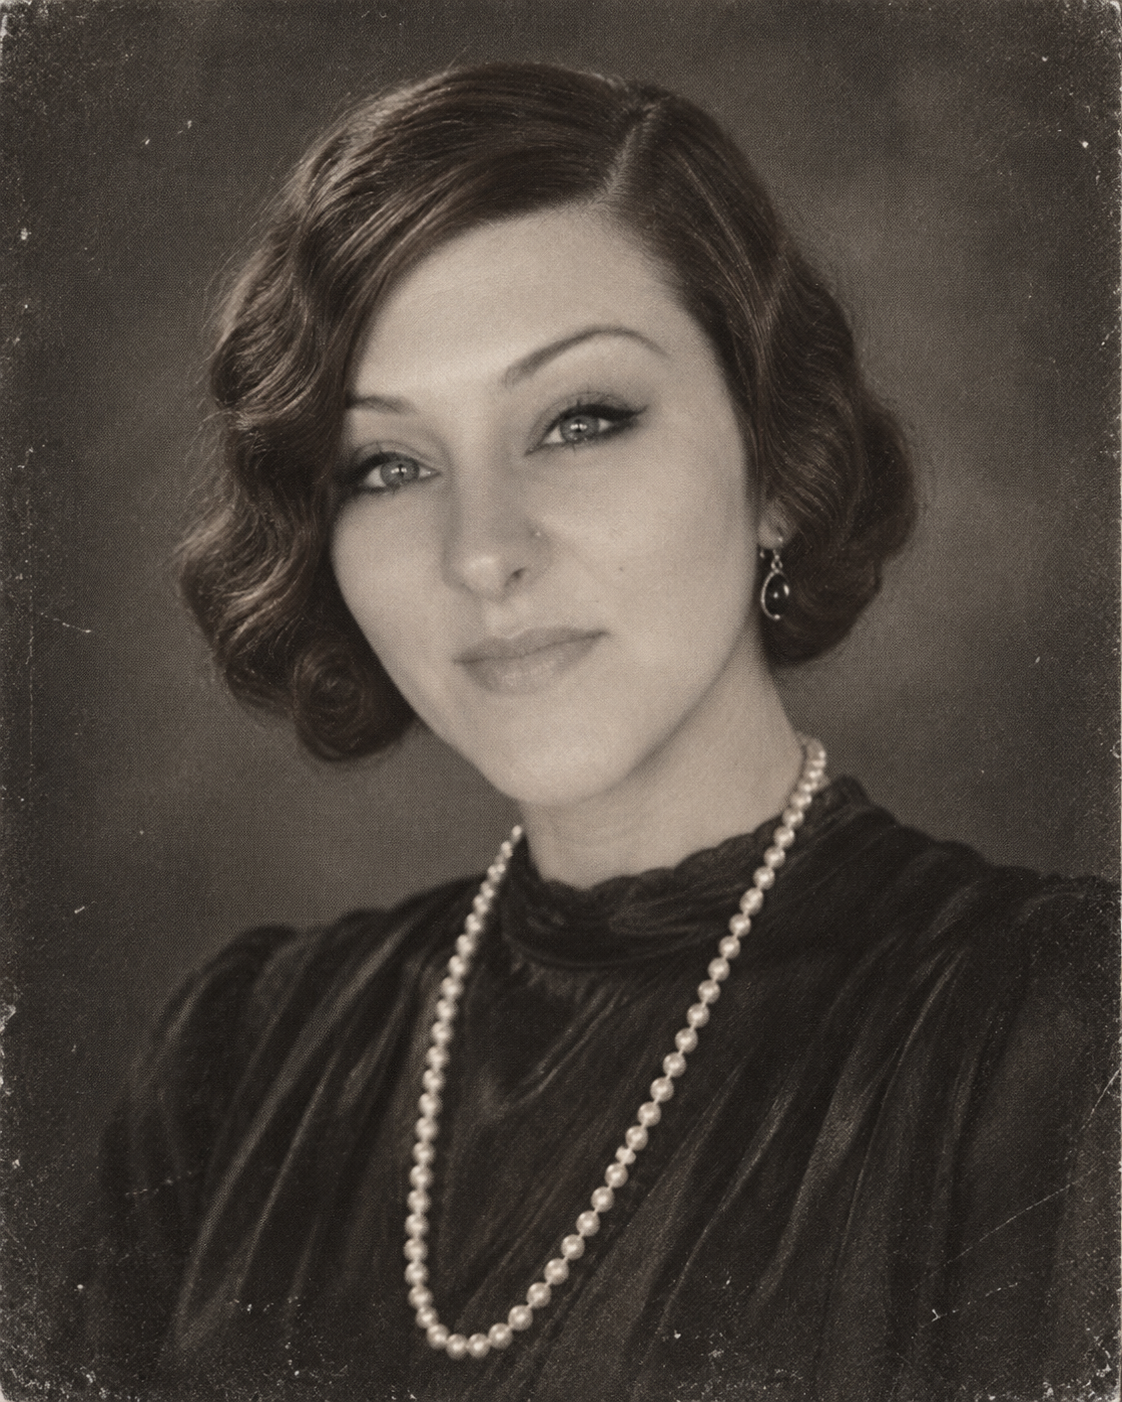
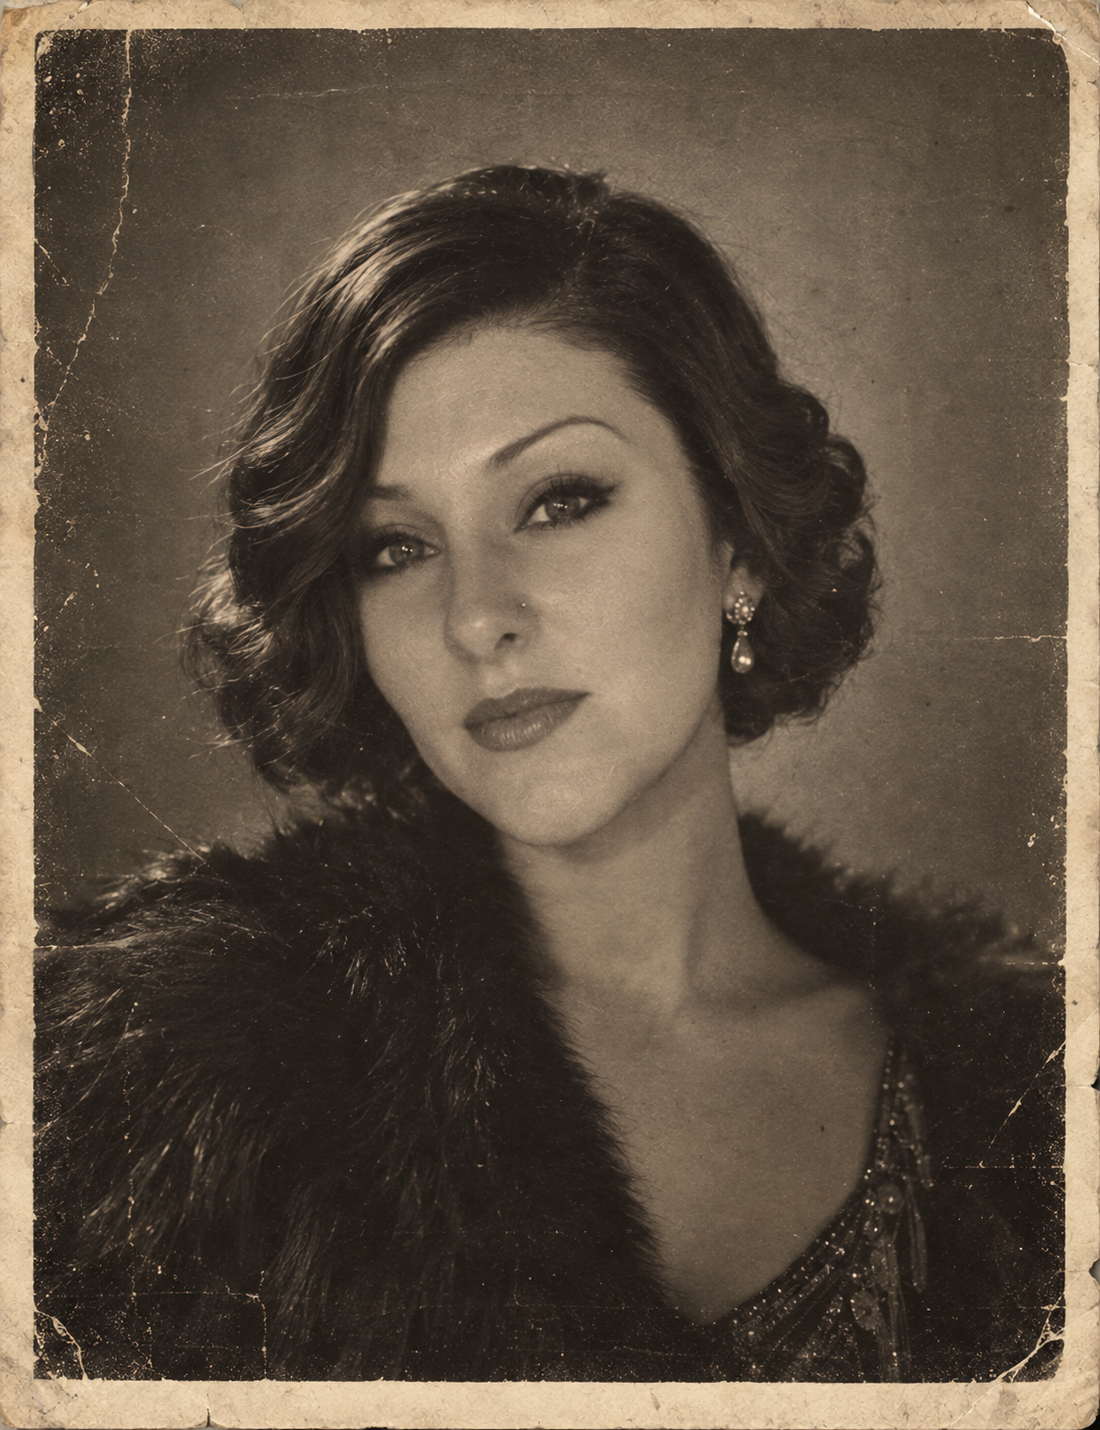
Replace Cassandra Castello portrait with supplied archive photograph
Swaps the AI-generated portrait on the murderer-or-murdered record
(BV-24-047) for the actual aged photograph supplied by the project
owner, updating image dimensions/focal point and the generation notes
to reflect the source.

Claude-Session: https://claude.ai/code/session_01Qc1gDB9mF9ESTTK96P8jnB

diff --git a/src/data/archive.ts b/src/data/archive.ts
@@ -310,11 +310,11 @@ export const archiveRecords: ArchiveRecord[] = [
     ],
     image: {
       src: "/archive/fictional/cassandra-castello-portrait.png",
-      alt: "Fictional 1920s newspaper portrait of Cassandra Castello",
+      alt: "Fictional aged 1920s photograph of Cassandra Castello in a fur-trimmed coat, the print worn and cracked at the edges",
       caption: "CASSANDRA CASTELLO · proprietress of The Black Veil · photograph date uncertain",
-      width: 1122,
-      height: 1402,
-      focalPoint: "50% 25%",
+      width: 1100,
+      height: 1430,
+      focalPoint: "50% 22%",
     },
     continuedArticle: {
       headline: "Inquiry continues into masquerade massacre",

diff --git a/public/archive/fictional/GENERATION-NOTES.md b/public/archive/fictional/GENERATION-NOTES.md
@@ -4,7 +4,9 @@ These images were created with OpenAI's built-in image generation tool for **The
 
 ## `cassandra-castello-portrait.png`
 
-Prompt direction: Preserve the supplied woman's recognizable identity and facial structure while portraying her as Cassandra Castello in a dignified 1920s Manchester, New Hampshire newspaper portrait. Use period-accurate waved auburn hair, understated makeup, dark beaded dress, soft studio light, silver-gelatin grain, slight age and print wear, with no modern objects or text.
+Supplied by the project owner (an aged studio portrait, not generated with this session's tooling) and attached to the `murderer-or-murdered` archive record (`BV–24–047`, "Murdered or Murderer?") as Cassandra Castello's own photograph — dark waved hair, a fur-trimmed coat, a pearl drop earring, and worn, cracked print edges consistent with the record's "photograph date uncertain" caption. This file was previously an AI-generated portrait using the original prompt direction below; it has been replaced with the supplied photograph, which now also serves as the canonical Cassandra likeness reference for the other portraits in this set.
+
+Original prompt direction (superseded): Preserve the supplied woman's recognizable identity and facial structure while portraying her as Cassandra Castello in a dignified 1920s Manchester, New Hampshire newspaper portrait. Use period-accurate waved auburn hair, understated makeup, dark beaded dress, soft studio light, silver-gelatin grain, slight age and print wear, with no modern objects or text.
 
 ## `cassandra-masquerade-evidence.png`
 

diff --git a/README.md b/README.md
@@ -40,7 +40,7 @@ Important newspaper copy is deterministic HTML/CSS rather than text baked into g
 
 ## Visual assets
 
-- `public/archive/fictional/cassandra-castello-portrait.png` — canonical fictional Cassandra portrait generated from a privately supplied likeness reference
+- `public/archive/fictional/cassandra-castello-portrait.png` — canonical Cassandra portrait; a privately supplied photograph, not AI-generated
 - `public/archive/fictional/cassandra-society-cigarette-holder.png` — society portrait using the same canonical likeness
 - `public/archive/fictional/cassandra-arrival-by-carriage.png` — Cassandra's carriage arrival before the society desk's cameras
 - `public/archive/fictional/cassandra-masquerade-evidence.png` — fictional 1924 masquerade evidence photograph using the same likeness
